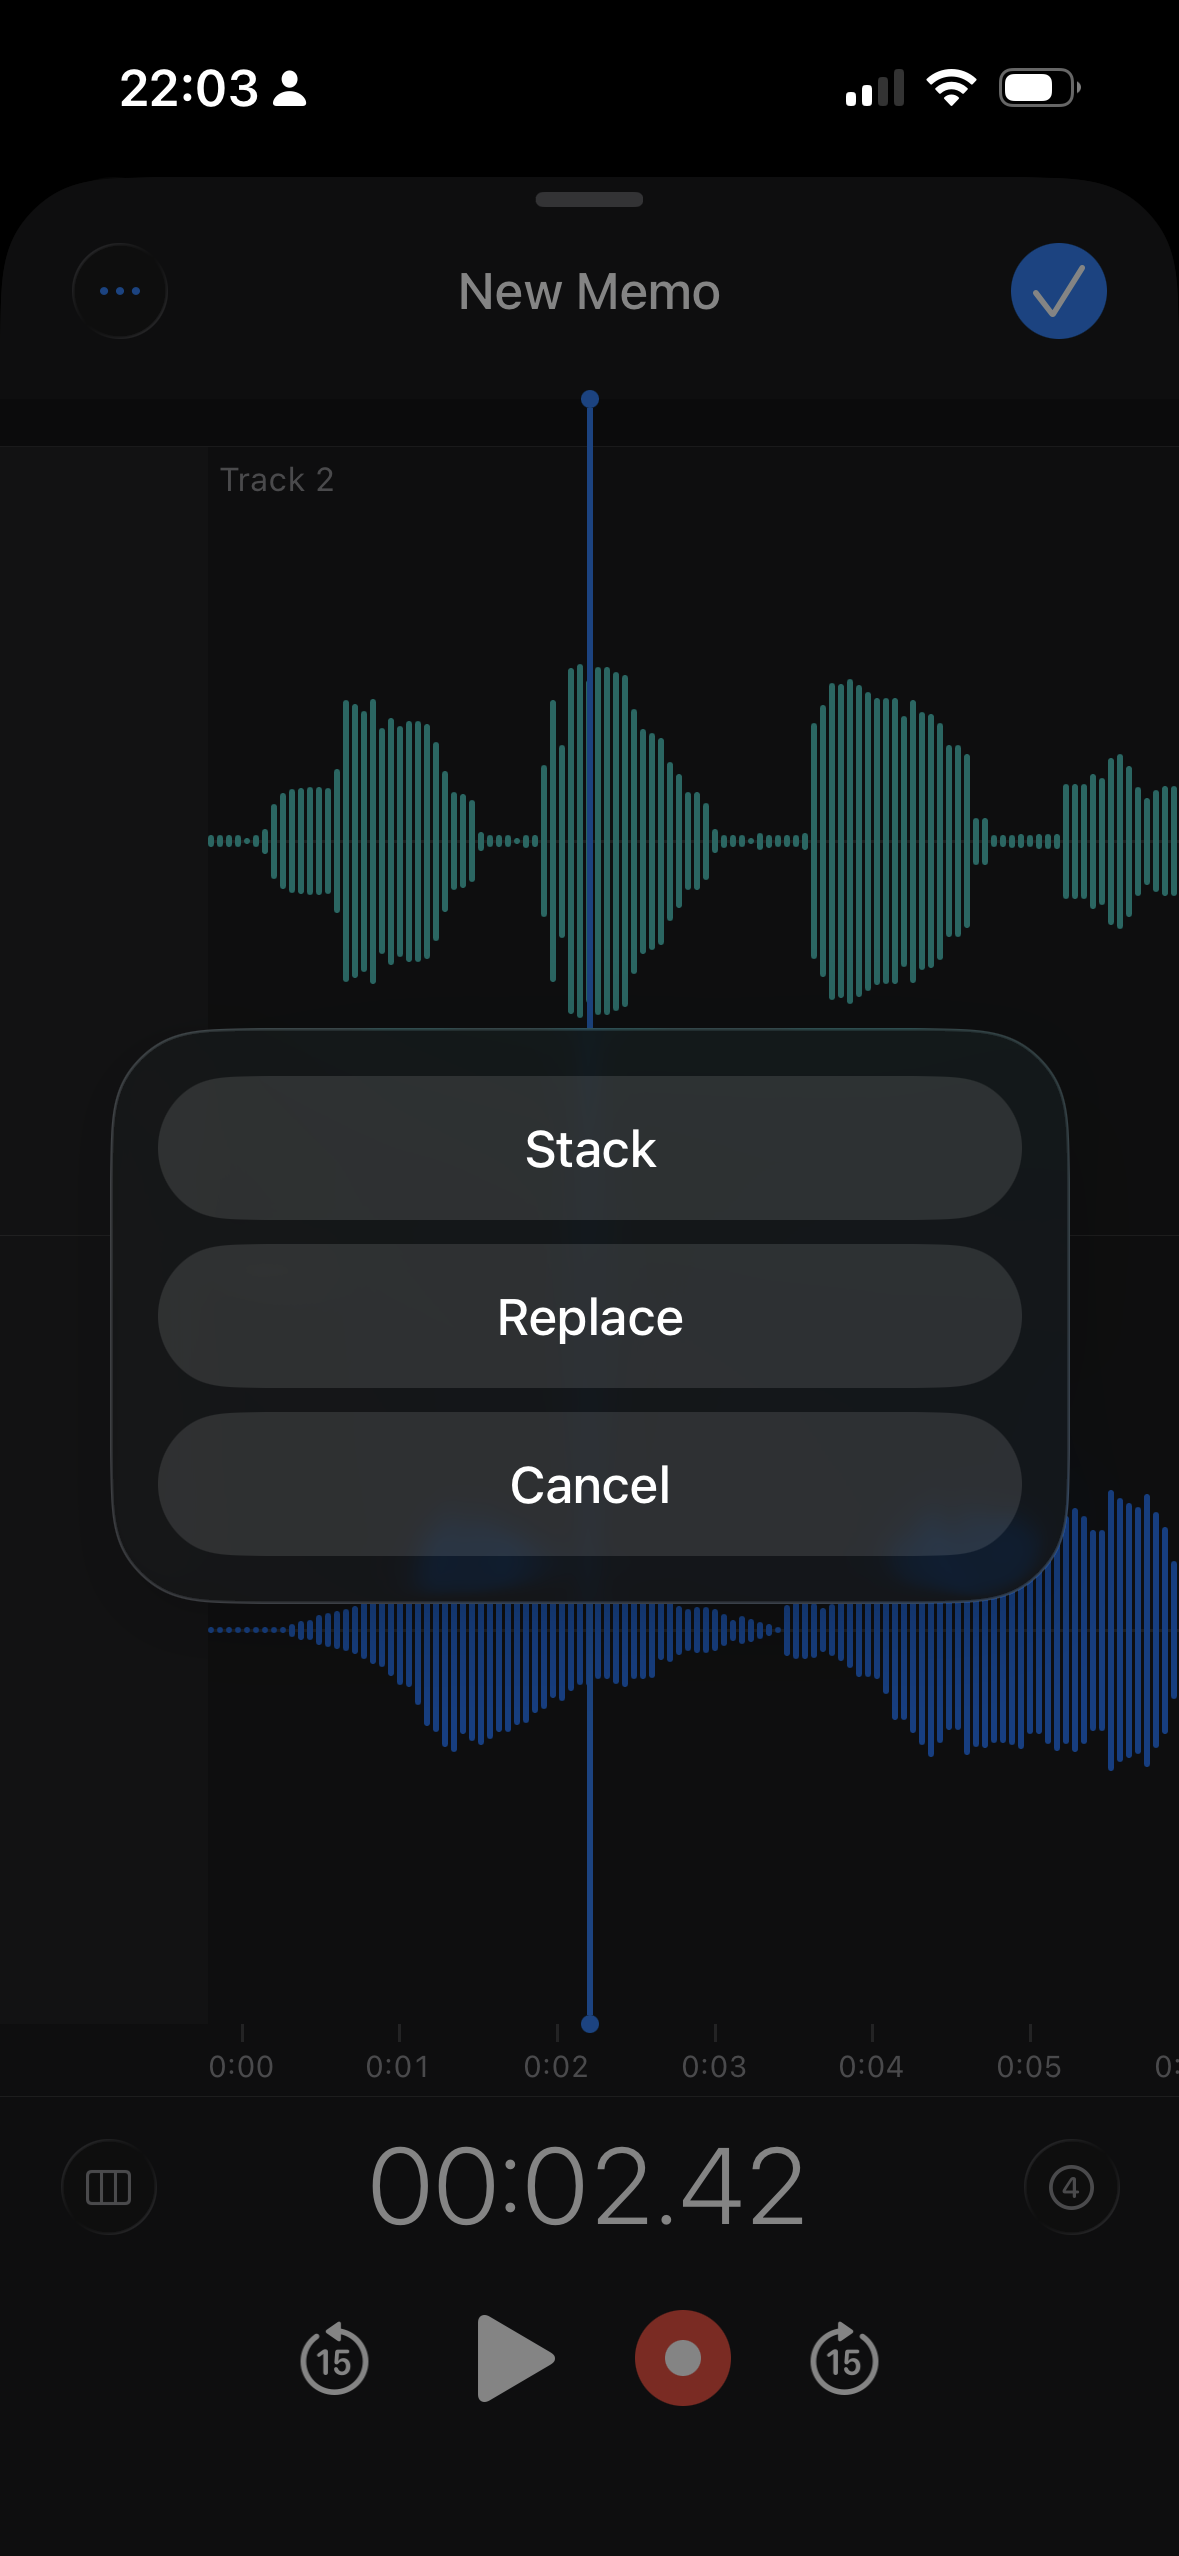
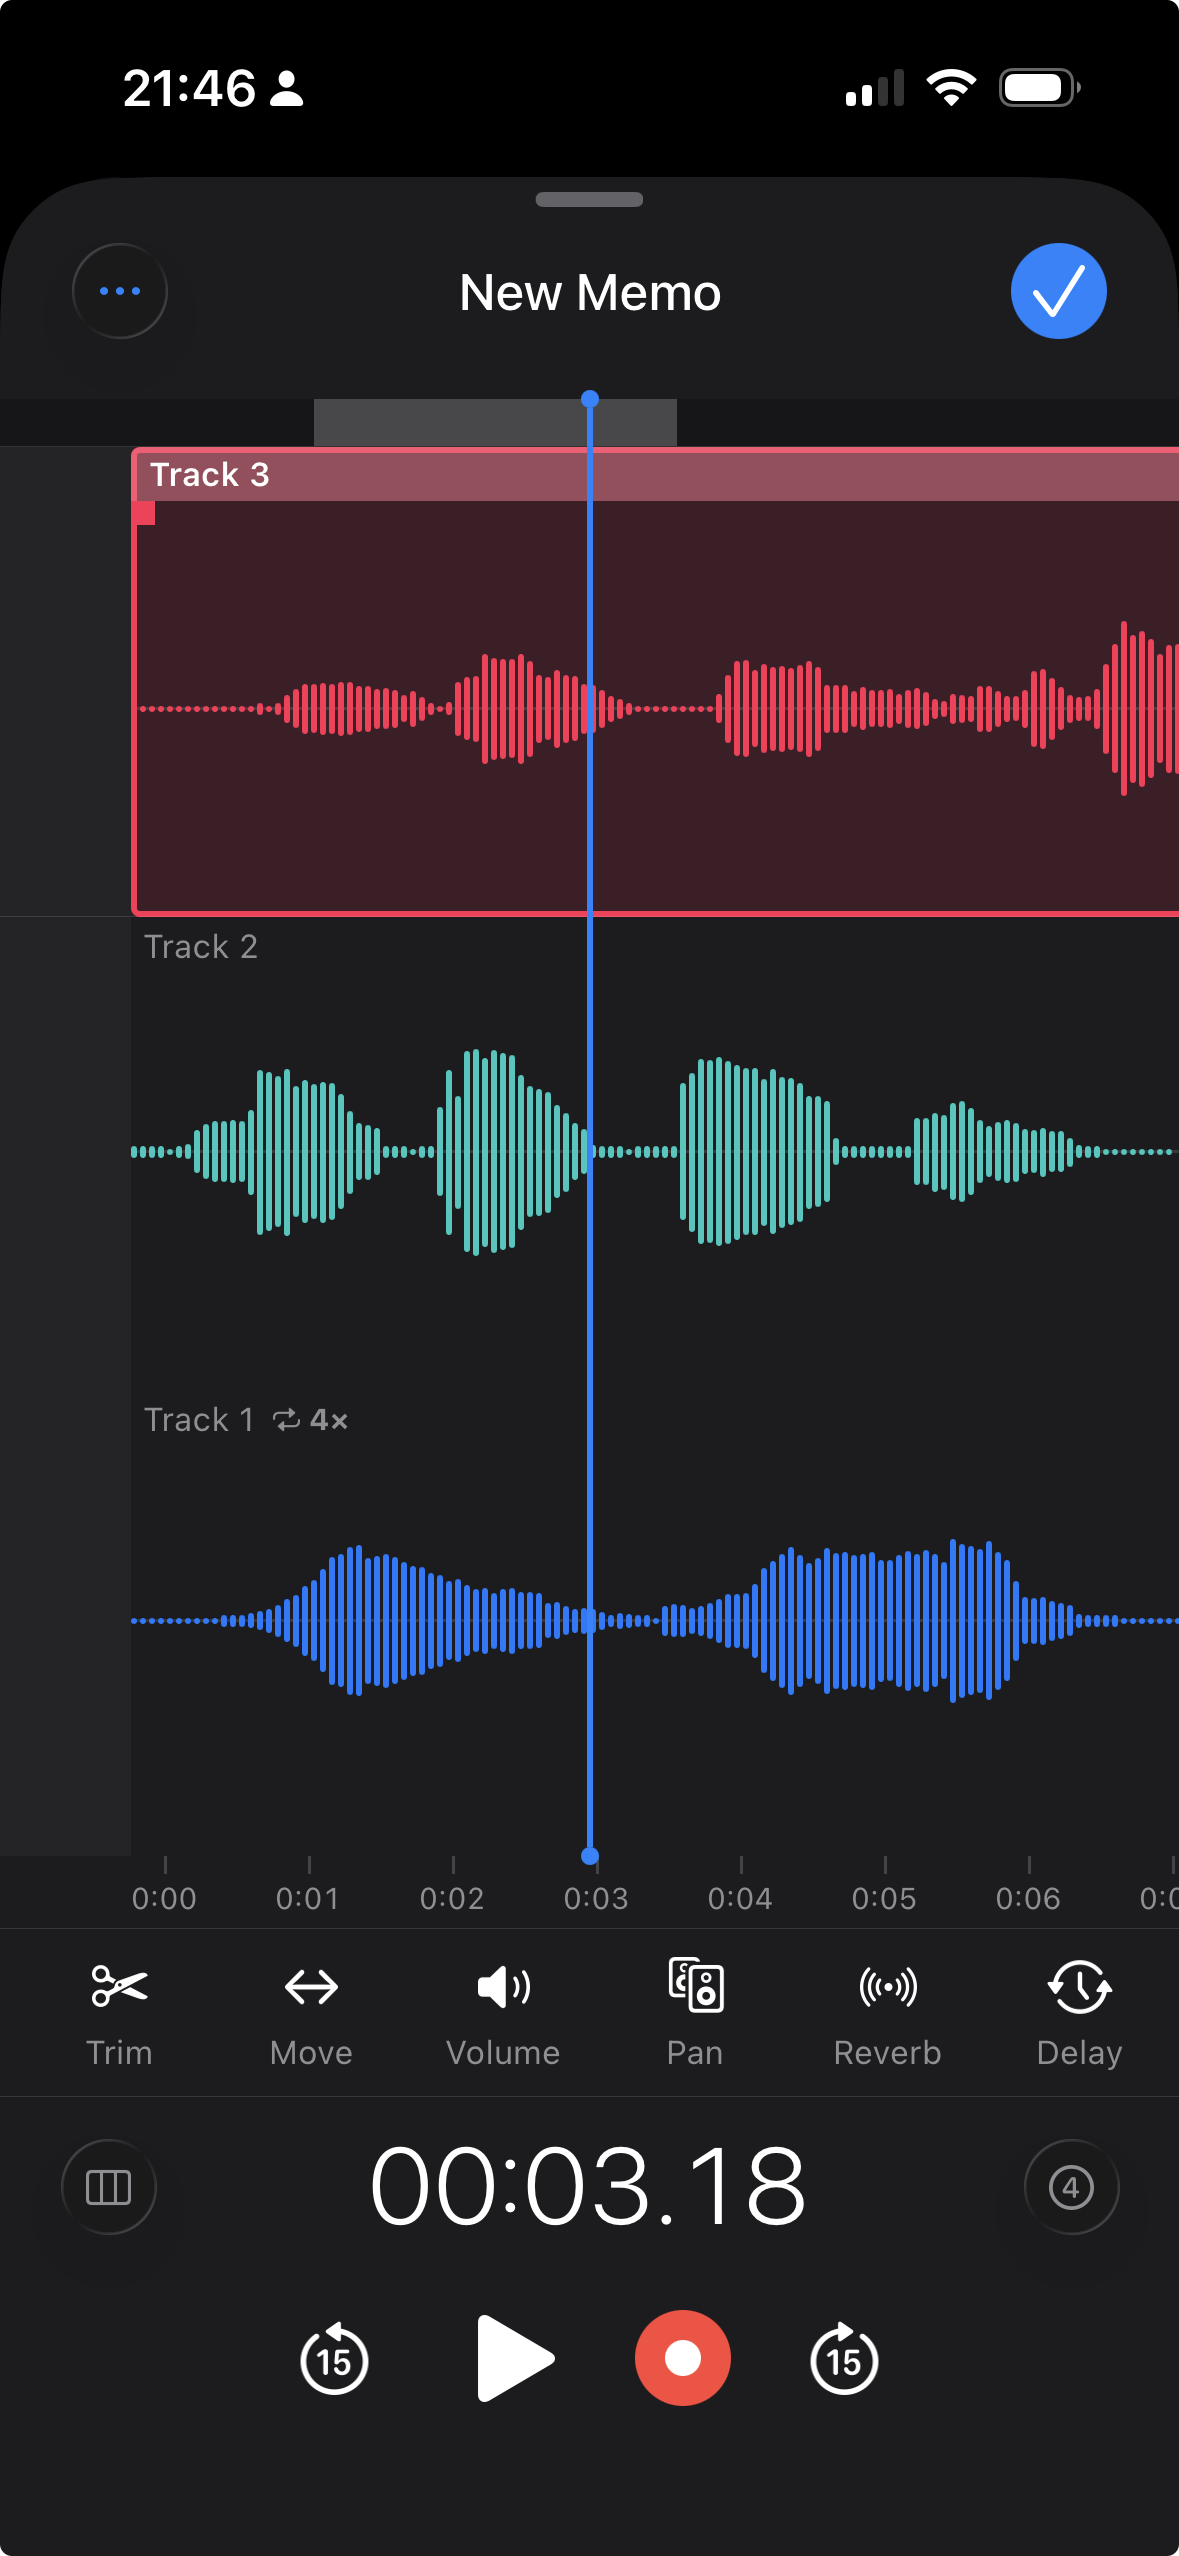
feat(landing): update landing page content and improve feature descriptions

diff --git a/landing/index.html b/landing/index.html
@@ -6,7 +6,7 @@
     <title>Voice Memos Plus</title>
     <meta
       name="description"
-      content="Ever wonder if Voice Memos could do more? Voice Memos Plus turns your iPhone into a high-quality recorder and editor — stack layers, shape every track, and export polished takes."
+      content="Voice Memos Plus is a powerful multi-track voice memo packed with features that take your recordings to the next level."
     />
     <link rel="icon" href="./assets/icon.png" type="image/png" />
     <script>
@@ -104,7 +104,8 @@
             <p class="eyebrow">Ever wonder if Voice Memos could do more?</p>
             <h1>Voice Memos Plus</h1>
             <p class="hero-subtitle">
-              Take your Voice Memos to the next level with a high-quality recorder and editor for your iPhone. Stack layers, shape every track
+              <strong>Voice Memos Plus</strong> is a powerful multi-track voice recorder that is packed with
+              features that will take your recordings to the next level.
             </p>
             <div class="hero-ctas">
               <span
@@ -186,7 +187,7 @@
           <div class="features-grid">
             <a href="#stack" class="feature-card feature-card-link fade-on-scroll" data-slide-target="stack">
               <h3>Stack</h3>
-              <p>Overdub new layers while monitoring the mix.</p>
+              <p>Build harmony, parts, and ideas on top of the same memo.</p>
             </a>
             <a href="#edit" class="feature-card feature-card-link fade-on-scroll" data-slide-target="edit">
               <h3>Edit track</h3>
@@ -245,14 +246,14 @@
                 <div class="feature-layout">
                   <div class="feature-copy">
                     <p class="eyebrow">Stack</p>
-                    <h2>Layer new takes over what you already recorded.</h2>
+                    <h2>Add as many layers as your idea needs.</h2>
                     <p class="feature-intro">
-                      Overdub with a monitor mix so harmony, percussion, or a second vocal lands in the same
-                      memo. Headphones recommended for a clean stack.
+                      Don’t stop at a single take. Build harmony, parts, and ideas on top of each other.
+                      Harmony, guitar, a second vocal — all in the same memo on your phone.
                     </p>
                     <ul class="feature-list">
-                      <li>Record a new layer while hearing what you already captured.</li>
-                      <li>Keep everything in one memo — no bouncing between apps.</li>
+                      <li>Overdub while monitoring what’s already there.</li>
+                      <li>Grow a quick sketch into an arrangement.</li>
                     </ul>
                   </div>
                   <div class="feature-visual">
@@ -266,7 +267,7 @@
                             data-iphone-dark-src="./assets/screenshots/iphone/dark/stack.png"
                             data-ipad-light-src="./assets/screenshots/ipad/light/stack.png"
                             data-ipad-dark-src="./assets/screenshots/ipad/dark/stack.png"
-                            alt="Stack or replace recording options"
+                            alt="Multi-track stack with layered waveforms"
                             width="556"
                             height="1205"
                           />
@@ -288,9 +289,9 @@
                             data-iphone-dark-src="./assets/screenshots/iphone/dark/stack.png"
                             data-ipad-light-src="./assets/screenshots/ipad/light/stack.png"
                             data-ipad-dark-src="./assets/screenshots/ipad/dark/stack.png"
-                            alt="Stack or replace recording options on iPad"
-                            width="2732"
-                            height="2048"
+                            alt="Multi-track stack with layered waveforms on iPad"
+                            width="1224"
+                            height="855"
                           />
                         </div>
                       </div>

diff --git a/landing/styles.css b/landing/styles.css
@@ -492,6 +492,11 @@ html[data-device='ipad'] .hero-content {
   line-height: 1.55;
 }
 
+.hero-subtitle strong {
+  color: var(--text-main);
+  font-weight: 650;
+}
+
 .hero-ctas {
   display: flex;
   flex-wrap: wrap;
@@ -983,10 +988,55 @@ html[data-device='ipad'] .iphone-frame {
   border: 1px solid var(--border-card);
   box-shadow: var(--shadow-card);
   font-size: 14px;
+  display: grid;
+  grid-template-columns: auto minmax(0, 1fr);
+  grid-template-rows: auto auto;
+  column-gap: 12px;
+  row-gap: 6px;
+  align-items: start;
+}
+
+.feature-card-icon {
+  grid-column: 1;
+  grid-row: 1 / span 2;
+  display: inline-flex;
+  align-items: center;
+  justify-content: center;
+  width: 44px;
+  height: 44px;
+  margin: 0;
+  border-radius: 12px;
+  border: 1px solid var(--border-card);
+  background: var(--bg-ghost);
+  color: var(--accent-primary);
+  line-height: 0;
+}
+
+.feature-card-icon svg {
+  display: block;
+  width: 24px;
+  height: 24px;
+}
+
+.feature-card h3 {
+  grid-column: 2;
+  grid-row: 1;
+  align-self: center;
+  font-size: 16px;
+  margin: 0;
+  color: var(--accent-primary);
+}
+
+.feature-card p {
+  grid-column: 2;
+  grid-row: 2;
+  margin: 0;
+  color: var(--text-muted);
+  line-height: 1.5;
 }
 
 .feature-card-link {
-  display: block;
+  display: grid;
   color: inherit;
   transition: transform 140ms ease-out, box-shadow 140ms ease-out,
     border-color 140ms ease-out;
@@ -997,6 +1047,12 @@ html[data-device='ipad'] .iphone-frame {
   transform: translateY(-2px);
   box-shadow: var(--shadow-soft);
   border-color: var(--border-strong);
+}
+
+.feature-card-link:hover .feature-card-icon,
+.feature-card-link:focus-visible .feature-card-icon {
+  color: var(--accent-sky);
+  border-color: color-mix(in srgb, var(--accent-sky) 40%, var(--border-card));
 }
 
 .feature-card-link:focus-visible {
@@ -1010,16 +1066,9 @@ html[data-device='ipad'] .iphone-frame {
   transform: translateY(-2px);
 }
 
-.feature-card h3 {
-  font-size: 16px;
-  margin: 0 0 8px;
-  color: var(--accent-primary);
-}
-
-.feature-card p {
-  margin: 0;
-  color: var(--text-muted);
-  line-height: 1.5;
+.feature-card-link.is-active .feature-card-icon {
+  color: var(--accent-sky);
+  border-color: color-mix(in srgb, var(--accent-sky) 45%, var(--border-card));
 }
 
 .section-slideshow {
